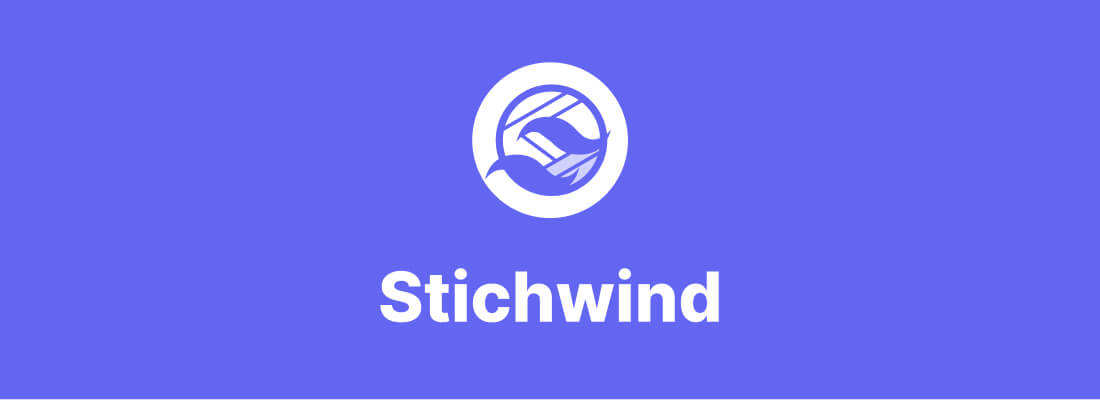
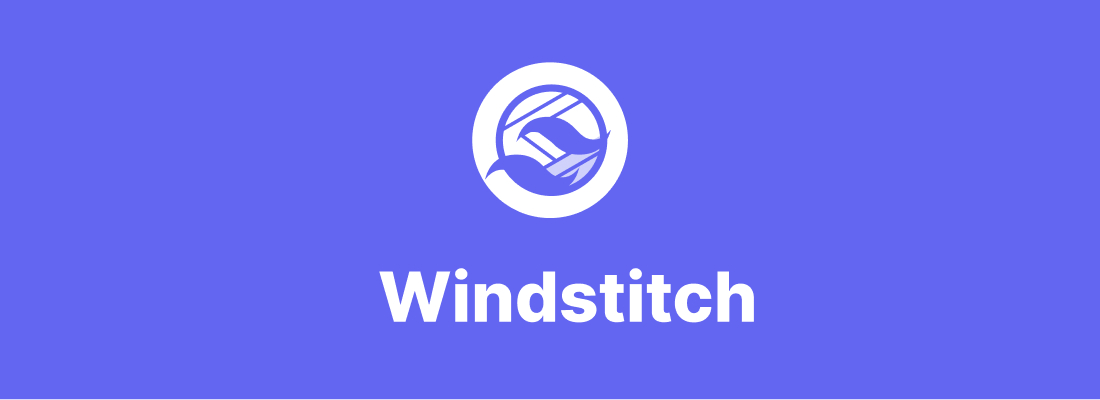
refactor: change name to windstitch

diff --git a/docs/docusaurus.config.js b/docs/docusaurus.config.js
@@ -6,7 +6,7 @@ const darkCodeTheme = require('prism-react-renderer/themes/shadesOfPurple');
 
 /** @type {import('@docusaurus/types').Config} */
 const config = {
-  title: 'Stichwind',
+  title: 'Windstitch',
   tagline: 'Stitches-like API for Tailwind CSS',
   url: 'https://your-docusaurus-test-site.com',
   baseUrl: '/',
@@ -44,9 +44,9 @@ const config = {
     /** @type {import('@docusaurus/preset-classic').ThemeConfig} */
     ({
       navbar: {
-        title: 'Stichwind',
+        title: 'Windstitch',
         logo: {
-          alt: 'Stichwind Logo',
+          alt: 'Windstitch Logo',
           src: 'img/logo.svg',
         },
         items: [
@@ -57,14 +57,14 @@ const config = {
             label: 'Docs',
           },
           {
-            href: 'https://github.com/vinpac/stichwind',
+            href: 'https://github.com/vinpac/windstitch',
             label: 'GitHub',
             position: 'right',
           },
         ],
       },
       footer: {
-        copyright: `Copyright © ${new Date().getFullYear()} Stichwind. Built with Docusaurus.`,
+        copyright: `Copyright © ${new Date().getFullYear()} Windstitch. Built with Docusaurus.`,
       },
       prism: {
         theme: lightCodeTheme,

diff --git a/docs/src/pages/index.tsx b/docs/src/pages/index.tsx
@@ -96,7 +96,7 @@ function HomepageBestFeatures() {
           title="Simple API"
           description={
             <>
-              Stichwind provides only one function.
+              Windstitch provides only one function.
               <br /> No Providers, no Context. <br />
               <span className="text-gray-900 dark:text-gray-400">
                 Just Install and Use it

diff --git a/docs/docs/installation-example.tsx b/docs/docs/installation-example.tsx
@@ -1,5 +1,5 @@
 import React from 'react';
-import { w, W } from 'stichwind';
+import { w, W } from 'windstitch';
 import { useColorMode } from '@docusaurus/theme-common';
 
 const Container = w.div('', {

diff --git a/docs/docs/intro.md b/docs/docs/intro.md
@@ -8,7 +8,7 @@ sidebar_position: 1
 
 Stitchwind is a **2kb**, Simple Styling Library that helps you set **when** a className should be applied to a component.
 
-By providing Powerful Types through forward declarations, Stichwind aims to be simple yet powerful by limiting itself to be a organizer API, letting Tailwind handle the styling part.
+By providing Powerful Types through forward declarations, Windstitch aims to be simple yet powerful by limiting itself to be a organizer API, letting Tailwind handle the styling part.
 
 ---
 
@@ -16,13 +16,13 @@ By providing Powerful Types through forward declarations, Stichwind aims to be s
 
 ### Zero Runtime
 
-Stichwind is purely a `className` joiner function attached to a component. You do not need to add any Provider, Context or anything at all. Just install it and start using.
+Windstitch is purely a `className` joiner function attached to a component. You do not need to add any Provider, Context or anything at all. Just install it and start using.
 
 ## Key Features
 
 ### Variants
 
-[Stitches](https://stitches.dev/docs/introduction#variants) introduces variants as a first-class citizen, so you can design composable component APIs. Stichwind drinks from that to use the `variants` pattern as the form of declaring your styles.
+[Stitches](https://stitches.dev/docs/introduction#variants) introduces variants as a first-class citizen, so you can design composable component APIs. Windstitch drinks from that to use the `variants` pattern as the form of declaring your styles.
 
 ### Theming
 
@@ -30,7 +30,7 @@ Stichwind is purely a `className` joiner function attached to a component. You d
 
 ### Utils
 
-Stichwind offers you 2 way of declaring variants. You can either use a [`Record` or a `Function`](/docs/add-variants). So you can easily use create any utils that you want.
+Windstitch offers you 2 way of declaring variants. You can either use a [`Record` or a `Function`](/docs/add-variants). So you can easily use create any utils that you want.
 
 ```typescript
 const textSize = {

diff --git a/README.md b/README.md
@@ -1,35 +1,35 @@
-![Stichwind](https://github.com/vinpac/stichwind/blob/main/docs/static/img/banner.jpg?raw=true)
+![Windstitch](https://github.com/vinpac/windstitch/blob/main/docs/static/img/banner.jpg?raw=true)
 
-# Stichwind
+# Windstitch
 
 Stitchwind is a **1.2kB**, Simple Styling Library that helps you set **when** a className should be applied to a component.
 
-By providing Powerful Types through forward declarations, Stichwind aims to be simple yet powerful by limiting itself to be a organizer API, letting Tailwind handle the styling part.
+By providing Powerful Types through forward declarations, Windstitch aims to be simple yet powerful by limiting itself to be a organizer API, letting Tailwind handle the styling part.
 
 # Install
 
-Install Stichwind from your terminal via npm or yarn.
+Install Windstitch from your terminal via npm or yarn.
 
 ```bash
 # With npm
-npm install stichwind
+npm install windstitch
 
 # With yarn
-yarn add stichwind
+yarn add windstitch
 ```
 
 ### Import it
 
-Import `styled` from `stichwind`.
+Import `styled` from `windstitch`.
 
 ```js
-import { styled } from 'stichwind';
+import { styled } from 'windstitch';
 ```
 
 You can also import `w`, which works as an alias for `styled`
 
 ```typescript
-import { w } from 'stichwind';
+import { w } from 'windstitch';
 ```
 
 ### Use it

diff --git a/docs/docs/add-variants.md b/docs/docs/add-variants.md
@@ -9,7 +9,7 @@ Variants are fields that create different versions of your component. Use them t
 ## Record Variants
 
 ```typescript
-import { w, W } from 'stichwind';
+import { w, W } from 'windstitch';
 
 const Button = w.button('bg-white', {
   variants: {
@@ -28,7 +28,7 @@ type ButtonProps = W.infer<typeof Button>;
 For complex values, use a function style it. The prop type is inferred from the first argument type. Always remember to set it.
 
 ```typescript
-import { w, W } from 'stichwind';
+import { w, W } from 'windstitch';
 
 const Checkbox = w.input('bg-white', {
   variants: {
@@ -44,7 +44,7 @@ type CheckboxProps = W.infer<typeof Checkbox>;
 All Variants are required by default. To make one optional, just set a default value for it through `defaultProps`.
 
 ```typescript
-import { w, W } from 'stichwind';
+import { w, W } from 'windstitch';
 
 const Checkbox = w.input('bg-white', {
   variants: {

diff --git a/docs/docs/installation.md b/docs/docs/installation.md
@@ -4,30 +4,30 @@ sidebar_position: 2
 
 import Button from './installation-example.tsx'
 
-# Install Stichwind
+# Install Windstitch
 
-Install Stichwind from your terminal via npm or yarn.
+Install Windstitch from your terminal via npm or yarn.
 
 ```bash
 # With npm
-npm install stichwind
+npm install windstitch
 
 # With yarn
-yarn add stichwind
+yarn add windstitch
 ```
 
 ### Import it
 
-Import `styled` from `stichwind`.
+Import `styled` from `windstitch`.
 
 ```js
-import { styled } from 'stichwind';
+import { styled } from 'windstitch';
 ```
 
 You can also import `w`, which works as an alias for `styled`
 
 ```typescript
-import { w } from 'stichwind';
+import { w } from 'windstitch';
 ```
 
 ### Use it

diff --git a/docs/docs/create-a-component.md b/docs/docs/create-a-component.md
@@ -7,7 +7,7 @@ sidebar_position: 3
 ## Using a Tag name
 
 ```typescript
-import { w } from 'stichwind';
+import { w } from 'windstitch';
 
 const Button = w.button('bg-white');
 ```
@@ -15,7 +15,7 @@ const Button = w.button('bg-white');
 ## Using a Custom Component
 
 ```typescript
-import { w } from 'stichwind';
+import { w } from 'windstitch';
 
 const CustomComponent: React.FC<{ className: string }> = props => (
   <input {...props} type="checkbox" />
